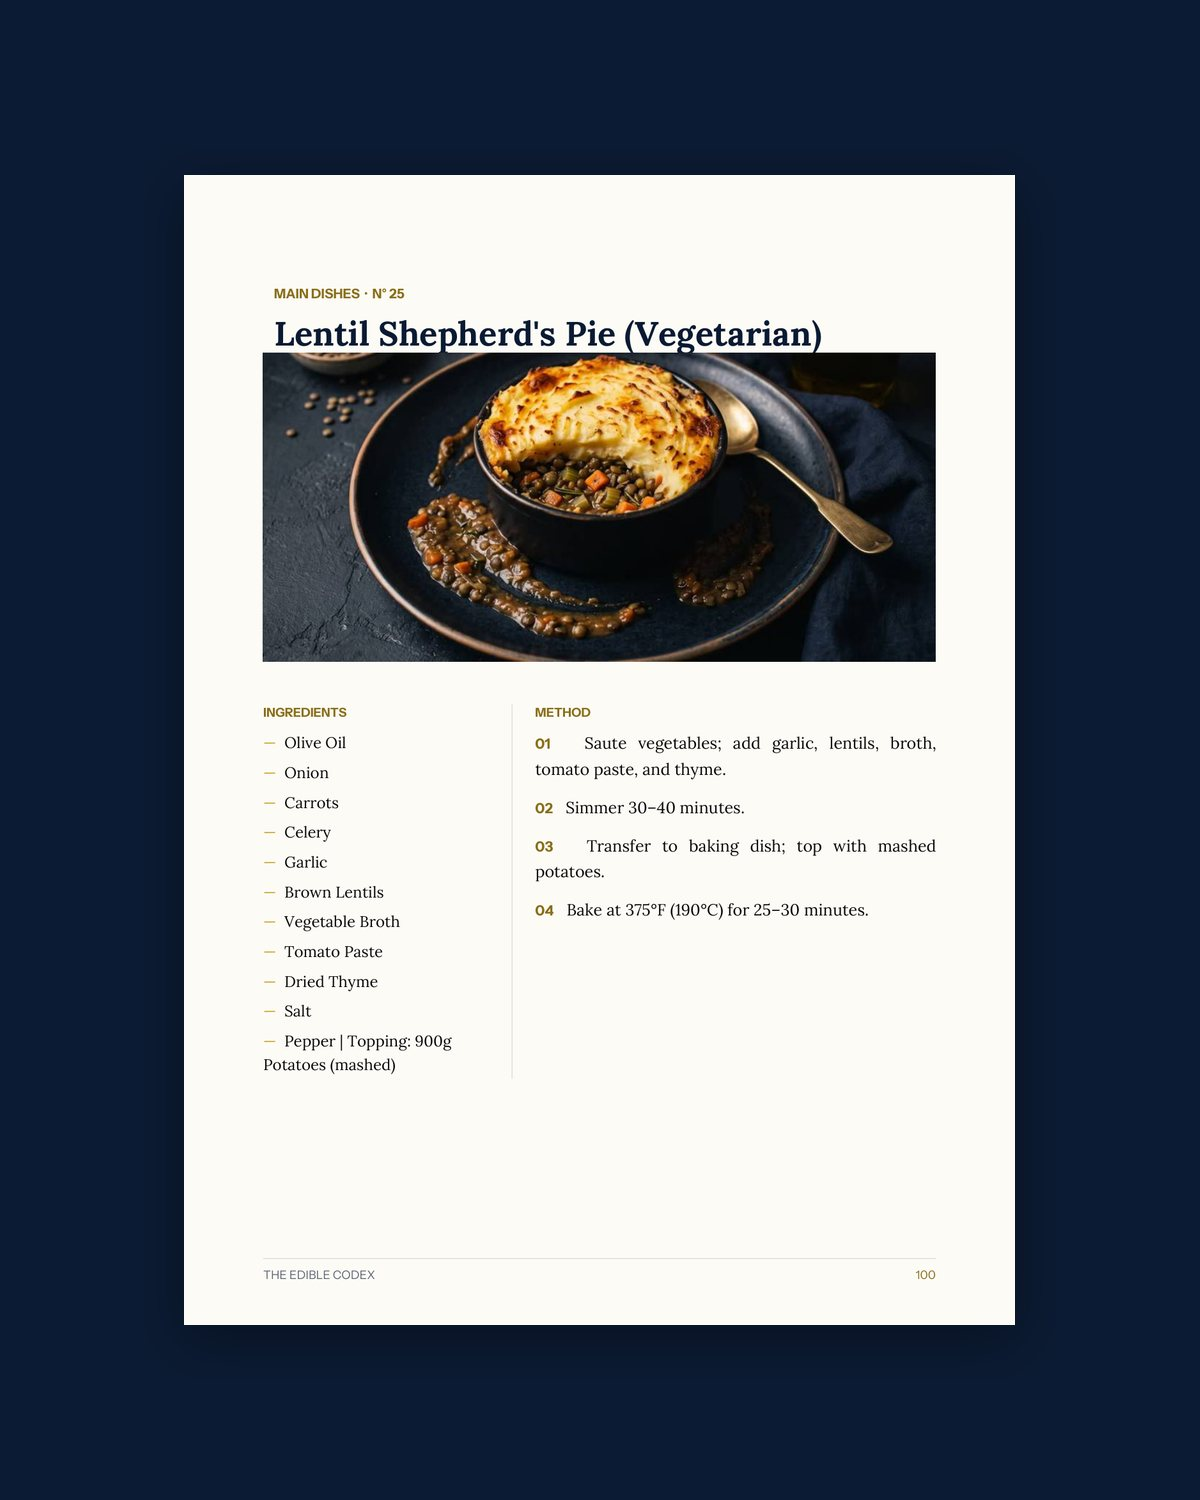
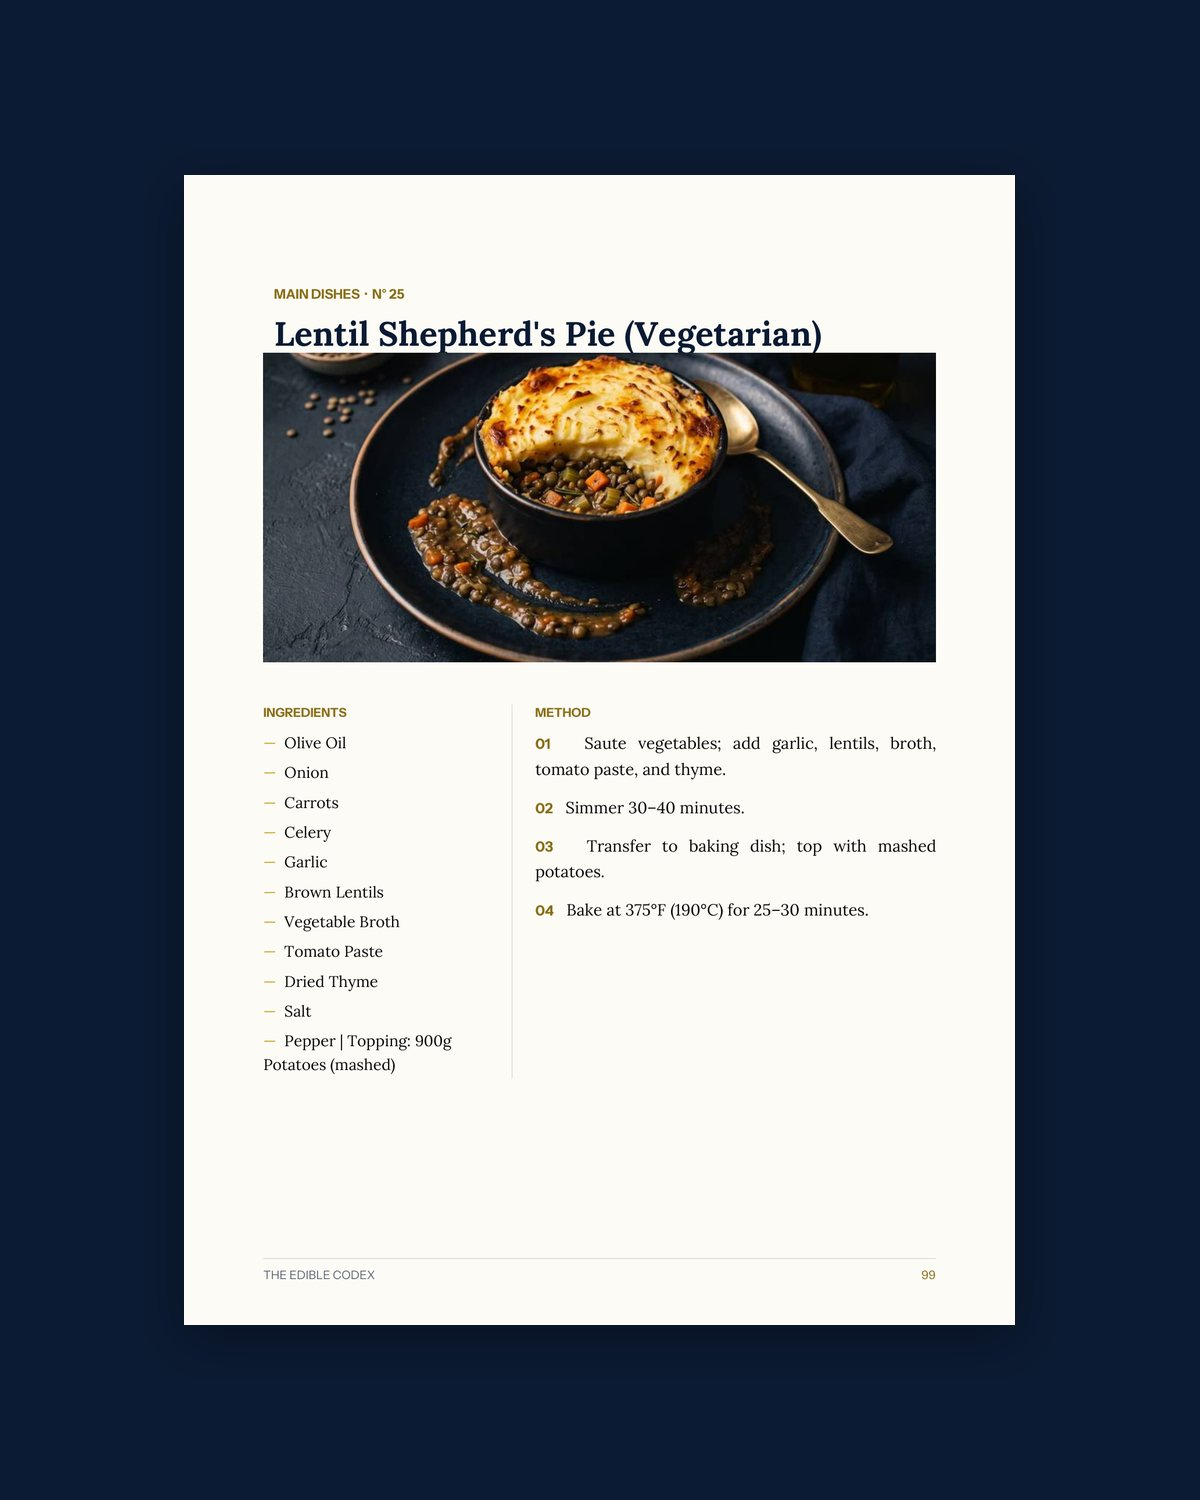
Three recipes were in the book twice
Gigi Hadid's vodka pasta, the Jennifer Aniston salad and the buffalo
chicken dip each appeared under two numbers. The surviving copy keeps
its number and photograph and takes the fuller blurb from the one that
goes; everything after a removal shifts up, and the plates, bands and
slim crops are renamed to follow, since their filenames carry the
number.

The book now prints its own counts instead of carrying typed ones — the
contents page had been claiming twenty Hot Appetizers where there were
nineteen. Across the site: 261 + 100 free = 361 recipes, 386 pages.

Claude-Session: https://claude.ai/code/session_01TTQeKAFA689qdG4vjzm6Ms

diff --git a/src/i18n/dictionary.ts b/src/i18n/dictionary.ts
@@ -25,8 +25,8 @@ export const dictionary = {
   "hero.title.line1": { ar: "فنّ الطبق", en: "The Art of" },
   "hero.title.line2": { ar: "الاحترافي", en: "The Plate" },
   "hero.subtitle": {
-    ar: "٢٦٤ وصفة مُنسَّقة بعناية، مصوَّرة ومشروحة خطوة بخطوة، من مطبخ محترف إلى مطبخك.",
-    en: "264 curated recipes, photographed and broken down step by step — from a professional kitchen to yours.",
+    ar: "٢٦١ وصفة مُنسَّقة بعناية، مصوَّرة ومشروحة خطوة بخطوة، من مطبخ محترف إلى مطبخك.",
+    en: "261 curated recipes, photographed and broken down step by step — from a professional kitchen to yours.",
   },
   "hero.cta.primary": { ar: "احصل على النسخة", en: "Get the Codex" },
   "hero.cta.secondary": { ar: "تصفّح المتجر", en: "Browse the Shop" },
@@ -34,8 +34,8 @@ export const dictionary = {
   "hero.stat.bonus": { ar: "وصفة سريعة مجاناً", en: "Free quick meals" },
   "hero.stat.readers": { ar: "قارئ حول العالم", en: "Readers worldwide" },
   "hero.portrait.line": {
-    ar: "كتبتُ ٣٦٤ وصفة كما أطبخها فعلاً — لا كما تُكتب في الكتب.",
-    en: "I wrote 364 recipes the way I actually cook them — not the way books write them.",
+    ar: "كتبتُ ٣٦١ وصفة كما أطبخها فعلاً — لا كما تُكتب في الكتب.",
+    en: "I wrote 361 recipes the way I actually cook them — not the way books write them.",
   },
   "hero.portrait.brand": { ar: "مؤسّس ذا إديبل كودكس · عمّان", en: "Founder of The Edible Codex · Amman" },
   "hero.scroll": { ar: "تابع النزول", en: "Scroll" },
@@ -71,10 +71,10 @@ export const dictionary = {
   "featured.eyebrow": { ar: "الإصدار الرئيسي", en: "The Flagship" },
   "featured.title": { ar: "ذا إديبل كودكس", en: "The Edible Codex" },
   "featured.body": {
-    ar: "مجلّد رقمي من ٢٦٤ وصفة مقسّمة إلى فصول: المقبلات، اللحوم، المأكولات البحرية، الصلصات، والتنسيق. مع فصل هدية من ١٠٠ وصفة سريعة تُنجز في ٢٠ دقيقة.",
-    en: "A digital volume of 264 recipes across chapters — starters, meats, seafood, sauces and plating — plus a bonus chapter of 100 quick meals you can finish in 20 minutes.",
+    ar: "مجلّد رقمي من ٢٦١ وصفة مقسّمة إلى فصول: المقبلات، اللحوم، المأكولات البحرية، الصلصات، والتنسيق. مع فصل هدية من ١٠٠ وصفة سريعة تُنجز في ٢٠ دقيقة.",
+    en: "A digital volume of 261 recipes across chapters — starters, meats, seafood, sauces and plating — plus a bonus chapter of 100 quick meals you can finish in 20 minutes.",
   },
-  "featured.bullet.1": { ar: "٢٦٤ وصفة مع صور نهائية لكل طبق", en: "264 recipes, each with a finished plate photo" },
+  "featured.bullet.1": { ar: "٢٦١ وصفة مع صور نهائية لكل طبق", en: "261 recipes, each with a finished plate photo" },
   "featured.bullet.2": { ar: "فصل كامل عن الصلصات الملوّنة", en: "A full chapter on signature colour sauces" },
   "featured.bullet.3": { ar: "قوائم تسوّق جاهزة للطباعة", en: "Printable shopping lists" },
   "featured.bullet.4": { ar: "هدية: ١٠٠ وصفة سريعة", en: "Bonus: 100 quick meals" },
@@ -184,8 +184,8 @@ export const dictionary = {
   "offer.eyebrow": { ar: "عرض الإطلاق", en: "Launch Offer" },
   "offer.title": { ar: "النسخة الكاملة + الهدية", en: "The Complete Edition + Bonus" },
   "offer.body": {
-    ar: "احصل على ٢٦٤ وصفة مع فصل الـ١٠٠ وصفة السريعة مجاناً، بسعر الإطلاق ولفترة محدودة.",
-    en: "Get all 264 recipes with the 100 quick-meals chapter free, at launch pricing for a limited time.",
+    ar: "احصل على ٢٦١ وصفة مع فصل الـ١٠٠ وصفة السريعة مجاناً، بسعر الإطلاق ولفترة محدودة.",
+    en: "Get all 261 recipes with the 100 quick-meals chapter free, at launch pricing for a limited time.",
   },
   "offer.cta": { ar: "اطلب الآن", en: "Order now" },
 
@@ -309,10 +309,10 @@ export const dictionary = {
      what a searcher is looking for and closes with the reason to click —
      price, delivery, refund. Kept short enough to survive Google's truncation.
      عناوين مكتوبة لنتيجة البحث لا للصفحة نفسها. */
-  "seo.home.title": { ar: "٢٦٤ وصفة مصوّرة خطوة بخطوة", en: "264 Recipes, Photographed Step by Step" },
+  "seo.home.title": { ar: "٢٦١ وصفة مصوّرة خطوة بخطوة", en: "261 Recipes, Photographed Step by Step" },
   "seo.home.desc": {
-    ar: "كتاب طبخ رقمي من مطبخ محترف — ٢٦٤ وصفة مصوّرة ومشروحة بالجرام والكوب، مع ١٠٠ وصفة سريعة هدية. تحميل فوري بـ ٩٫٩٩ دولاراً واسترداد خلال ٣٠ يوماً.",
-    en: "A digital cookbook from a professional kitchen — 264 photographed recipes written in grams and cups, plus 100 quick meals free. Instant download for $9.99, 30-day refund.",
+    ar: "كتاب طبخ رقمي من مطبخ محترف — ٢٦١ وصفة مصوّرة ومشروحة بالجرام والكوب، مع ١٠٠ وصفة سريعة هدية. تحميل فوري بـ ٩٫٩٩ دولاراً واسترداد خلال ٣٠ يوماً.",
+    en: "A digital cookbook from a professional kitchen — 261 photographed recipes written in grams and cups, plus 100 quick meals free. Instant download for $9.99, 30-day refund.",
   },
   "seo.shop.title": { ar: "الكتاب الكامل والصلصات الخمس", en: "The Book & The Five Sauces" },
   "seo.shop.desc": {
@@ -331,8 +331,8 @@ export const dictionary = {
   },
   "seo.about.title": { ar: "الشيف أحمد سلامة", en: "Chef Ahmet Salameh" },
   "seo.about.desc": {
-    ar: "قصة المطبخ الذي وُلد منه ذا إديبل كودكس — من الخدمة اليومية إلى ٢٦٤ وصفة مُختبرة ومصوّرة.",
-    en: "The story of the kitchen behind The Edible Codex — from daily service to 264 tested, photographed recipes.",
+    ar: "قصة المطبخ الذي وُلد منه ذا إديبل كودكس — من الخدمة اليومية إلى ٢٦١ وصفة مُختبرة ومصوّرة.",
+    en: "The story of the kitchen behind The Edible Codex — from daily service to 261 tested, photographed recipes.",
   },
   "seo.contact.title": { ar: "تواصل معنا", en: "Contact Us" },
   "seo.contact.desc": {

diff --git a/index.html b/index.html
@@ -3,10 +3,10 @@
   <head>
     <meta charset="UTF-8" />
     <meta name="viewport" content="width=device-width, initial-scale=1.0" />
-    <title>٢٦٤ وصفة مصوّرة خطوة بخطوة | ذا إديبل كودكس</title>
+    <title>٢٦١ وصفة مصوّرة خطوة بخطوة | ذا إديبل كودكس</title>
     <meta
       name="description"
-      content="كتاب طبخ رقمي من مطبخ محترف — ٢٦٤ وصفة مصوّرة ومشروحة بالجرام والكوب، مع ١٠٠ وصفة سريعة هدية. تحميل فوري بـ ٩٫٩٩ دولاراً واسترداد خلال ٣٠ يوماً."
+      content="كتاب طبخ رقمي من مطبخ محترف — ٢٦١ وصفة مصوّرة ومشروحة بالجرام والكوب، مع ١٠٠ وصفة سريعة هدية. تحميل فوري بـ ٩٫٩٩ دولاراً واسترداد خلال ٣٠ يوماً."
     />
     <meta name="author" content="The Edible Codex" />
     <meta name="theme-color" content="#0B1B33" />
@@ -14,7 +14,7 @@
     <meta property="og:title" content="The Edible Codex | Modern Culinary Adventures" />
     <meta
       property="og:description"
-      content="264 curated recipes, photographed and broken down step by step — from a professional kitchen to yours."
+      content="261 curated recipes, photographed and broken down step by step — from a professional kitchen to yours."
     />
     <meta property="og:type" content="website" />
     <meta property="og:image" content="/brand/logo-square.jpg" />
@@ -72,9 +72,9 @@
           MODERN CULINARY ADVENTURES · مغامرات الطهي الحديثة
         </p>
         <p style="max-width:620px;margin:0 auto 32px;line-height:1.8;color:rgba(247,243,234,.75)">
-          ٢٦٤ وصفة مُنسَّقة، مصوَّرة ومشروحة خطوة بخطوة، من مطبخ محترف إلى مطبخك.
+          ٢٦١ وصفة مُنسَّقة، مصوَّرة ومشروحة خطوة بخطوة، من مطبخ محترف إلى مطبخك.
           <br />
-          264 curated recipes, photographed and broken down step by step — from a professional kitchen to yours.
+          261 curated recipes, photographed and broken down step by step — from a professional kitchen to yours.
         </p>
 
         <div style="max-width:620px;margin:0 auto;text-align:start">
@@ -83,7 +83,7 @@
           </h2>
 
           <h3 style="margin:24px 0 4px;font-size:18px">ذا إديبل كودكس — الكتاب الكامل · The Edible Codex — The Book</h3>
-          <p style="margin:0 0 6px;color:rgba(247,243,234,.7)">٢٦٤ وصفة منسّقة + ١٠٠ وصفة سريعة هدية · 264 curated recipes + 100 quick meals free</p>
+          <p style="margin:0 0 6px;color:rgba(247,243,234,.7)">٢٦١ وصفة منسّقة + ١٠٠ وصفة سريعة هدية · 261 curated recipes + 100 quick meals free</p>
           <p style="margin:0 0 10px;color:#C9A227;font-size:20px">$9.99</p>
           <a href="https://whop.com/c/the-edible-codex-cookbook/codex" style="color:#C9A227">اشترِ الآن · Buy now</a>
 

diff --git a/src/data/products.ts b/src/data/products.ts
@@ -39,15 +39,15 @@ export const products: Product[] = [
   {
     id: 1,
     slug: "the-edible-codex",
-    title: { ar: "٢٦٤ وصفة احترافية + ١٠٠ وصفة مجاناً", en: "264 Chef Recipes + 100 Free" },
-    subtitle: { ar: "كتاب رقمي — ذا إديبل كودكس في ٣٨٩ صفحة", en: "A digital book — The Edible Codex in 389 pages" },
+    title: { ar: "٢٦١ وصفة احترافية + ١٠٠ وصفة مجاناً", en: "261 Chef Recipes + 100 Free" },
+    subtitle: { ar: "كتاب رقمي — ذا إديبل كودكس في ٣٨٦ صفحة", en: "A digital book — The Edible Codex in 386 pages" },
     description: {
-      ar: "المجلّد الرقمي الكامل: ٣٦٤ وصفة في ٣٨٩ صفحة — ٢٦٤ وصفة من المطبخ المحترف، ومعها ١٠٠ وصفة من الوصفات التي اجتاحت الإنترنت، مجاناً. كل وصفة على صفحة واحدة، بصورتها الخاصة، بالمقادير والخطوات وملاحظة الشيف — لا تقليب بين صفحتين وأنت تطبخ.",
-      en: "The complete digital volume: 364 recipes across 389 pages — 264 from a professional kitchen, plus 100 of the internet's most-cooked dishes, free. Every recipe sits on a single page with its own photograph, its measurements, its method and a chef's note — no flipping back and forth while you cook.",
+      ar: "المجلّد الرقمي الكامل: ٣٦١ وصفة في ٣٨٦ صفحة — ٢٦١ وصفة من المطبخ المحترف، ومعها ١٠٠ وصفة من الوصفات التي اجتاحت الإنترنت، مجاناً. كل وصفة على صفحة واحدة، بصورتها الخاصة، بالمقادير والخطوات وملاحظة الشيف — لا تقليب بين صفحتين وأنت تطبخ.",
+      en: "The complete digital volume: 361 recipes across 386 pages — 261 from a professional kitchen, plus 100 of the internet's most-cooked dishes, free. Every recipe sits on a single page with its own photograph, its measurements, its method and a chef's note — no flipping back and forth while you cook.",
     },
     features: [
-      { ar: "٢٦٤ وصفة احترافية + ١٠٠ وصفة مجاناً = ٣٦٤", en: "264 chef recipes + 100 free = 364" },
-      { ar: "صورة خاصة لكل وصفة — ٣٦٤ صورة", en: "Its own photograph for every recipe — 364 in all" },
+      { ar: "٢٦١ وصفة احترافية + ١٠٠ وصفة مجاناً = ٣٦١", en: "261 chef recipes + 100 free = 361" },
+      { ar: "صورة خاصة لكل وصفة — ٣٦١ صورة، لا تتكرّر", en: "Its own photograph for every recipe — 361, none repeated" },
       { ar: "كل وصفة كاملة على صفحة واحدة", en: "Every recipe complete on one page" },
       { ar: "ملاحظة الشيف مع كل وصفة", en: "A chef's note with every recipe" },
       { ar: "ملف رقمي يُقرأ على الجوال واللوح والحاسوب", en: "A digital file that reads on phone, tablet and desktop" },

diff --git a/src/pages/HomePage.tsx b/src/pages/HomePage.tsx
@@ -89,7 +89,7 @@ const HomePage = () => {
 
             <dl className="mt-12 grid max-w-lg grid-cols-3 gap-6 border-t border-gold/20 pt-8">
               {[
-                { value: "264", label: t("hero.stat.recipes") },
+                { value: "261", label: t("hero.stat.recipes") },
                 { value: "100", label: t("hero.stat.bonus") },
                 { value: "12K+", label: t("hero.stat.readers") },
               ].map((stat) => (

diff --git a/src/pages/AboutPage.tsx b/src/pages/AboutPage.tsx
@@ -17,7 +17,7 @@ const AboutPage = () => {
 
   const numbers = [
     { value: "14+", label: t("about.numbers.years") },
-    { value: "264", label: t("about.numbers.recipes") },
+    { value: "261", label: t("about.numbers.recipes") },
     { value: "37", label: t("about.numbers.countries") },
   ];
 
